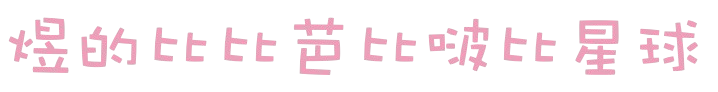
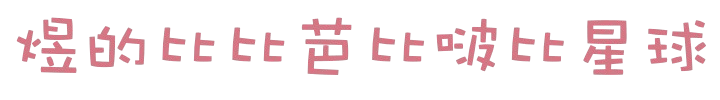
[lizhen] feat: add more lyric

Changed region(s): [[0.0, 0.1739, 0.9805, 0.8261]]

diff --git a/src/constants/call.ts b/src/constants/call.ts
@@ -1,5 +1,6 @@
 export const LYRIC = [
     '舍不得凶你 玫瑰花送你 有你 我心装不下别人变得拥挤',
+    '没有办法 拿你没有办法 告诉妈妈没办法不看她',
     '没有办法 拿你没有办法 天使守护公主 像写童话',
     '落日和你 星辰和你 都合理',
     '真实没有那么重要 重要的是真实感',
@@ -8,16 +9,23 @@ export const LYRIC = [
     '每个阶段都有终点站 我们得下车 走不同的路未来某个节点再会和',
     '惊喜来自未知才算作旅途 什么算不虚度',
     '闭上眼 看不见 想太多 tell me what u want',
-    '时常更新思想让系统重启',
+    '睡不着 找不到 想太多 tell me what u want',
+    '我们穿过烟雾 不可能延误 看不懂的以为我们修炼仙术',
+    '稀缺元素 入选年度 做到再回来宣布',
+    '时常更新思想 让系统重启',
     '有多少悔恨当初没有勇气奋不顾身',
     '有多少年轻灵魂心想不能一事无成',
     '假装没遗憾 当死神带走我一半',
     '可人都有七情六欲 所以经历相同悲欢',
+    '现在日子不好不坏活在黑与白的中间',
     '没改变这世界 也不确定是否被改变',
+    'ohoh 普通的人生 普通的想法在脑海里发芽生根',
     'ohoh 普通的人生 普通的故事 第三第二或第一人称',
+    '把自己打破再重塑的过程叫做长大',
+    '阳关道 独木桥 最后各有各的遗憾',
     '完美的人只出现在概念里',
     '我想成熟的爱是爱具体的人',
-    '到底是另外一种下放还是救赎',
+    '爱包裹的心脏血肉模糊 到底是另外一种下放还是救赎',
     '好像权衡利弊就可以削弱回忆的威力',
     '定义为再也不会有 或坏结局其实也未必',
     '不要着急记录 等故事结束再尝试叙述',
@@ -27,10 +35,66 @@ export const LYRIC = [
     '我丢掉了车票 原来她才是我通往开心的车票',
     '拥有的和即将拥有让我不断努力',
     '是谁透过迷雾看到真相 佩戴警徽当上警长的感觉真的很棒',
-    '消散的念头是缤纷的平行宇宙',
+    '不同选择决定不同的以后 消散的念头是缤纷的平行宇宙',
     '每个存在都值得被爱 值得被用心对待',
     '如果时间有尽头 你会不会在那里等我 还是注定要错过',
-    '除了你什么都没失去 和往常一样 但和你一起失去的是我自己'
+    '除了你什么都没失去 和往常一样 但和你一起失去的是我自己',
+    '能解决 早解决了 没解决的 没解决呢',
+    '好吧 明天又是新的一天 先把烦恼放一边',
+    '慢一点慢一点 反正我们又不用赶时间',
+    '替我许个愿望吧 让时间 美好 和爱 它们统统都来追我',
+    '“小鱼会有自己的海洋 你有属于自己的模样”',
+    '别总用理性标榜爱 用爱来试探人性',
+    '不能选择出生 但可以一直出声 舞刀弄剑或是文人书生',
+    '让美好属于世界 让我属于我',
+    '平等地拥抱每个灵魂的橘红色日落 和清晨的第一股花香 我想那都是我',
+    '我想要没有饥饿 没有寒冷 没有痛 没有穷 没有战争 没有残忍',
+    '我想要目睹花开 听到兩落 吹到风 摸到雪 大地对蓝天许诺',
+    '今天对明天来说也是回不去的从前',
+    '人与人刚认识的时候温度刚好 越想深入 越需要双向奔赴',
+    '我可以相信你但不相信人性 不相信白驹 我不相信概率',
+    '没有办法不看她 她能懂我的反差',
+    '你听到这首歌会感觉像朋友一样吗',
+    '一路上经过学校花店 荒野到海边 城堡和花园 还是怀念',
+    '我要你不为人知的反面',
+    '爱总会在它想来的时候到来',
+    '如果没有你 其他人在我心里都是套牌',
+    '爱偶尔让你丢失方位 太投入收获的幸福痛苦最后都是双倍',
+    '你爱他肉体还是灵魂 爱他骨子里的浑浊还是只是表面清纯',
+    '嘿 你好 好久没见',
+    '记得 是为了向上帝表达抗议 哪怕我抗拒的命运是不可抗力',
+    '我最害怕 时间让我忘了你的姓名',
+    '等到你想要牵着我的手 我带你去环游 一起仰望宇宙',
+    '你不需要变更优秀 因为我从没拿你和谁比较',
+    '我希望棒棒糖还是你开心的理由',
+    '在周末放个音乐庆祝 庆祝没放弃就没输',
+    '成长的感触 包容或袒护 时间轴上不断赶路',
+    '有人告诉他木秀于林 风必摧之 告诉他知之为知之 不知为不知',
+    '摇四季轮回 我们都变老',
+    '对不起 把你变成你不喜欢的你',
+    '对不起 没遵守承诺做到永远保护你',
+    '对不起 用坏的态度对待你',
+    '注入新的血液 留下改不掉的习惯',
+    '我尝试控制梦境 却无法阻止现实有人敲门有人离开',
+    '我也想过算了 还没转过弯呢',
+    '人们为达到目的 早已经放弃真理 我不想跟他们一样骗自己',
+    '不管你来自哪里 我们就是这个秋天最热门的话题',
+    '黑夜与白昼的争斗 思维清晰舌战群雄的能手',
+    '没人会被偏袒没实力只能遣返',
+    '不能什么都想要 最差结果要想到',
+    '如果你什么都想要 最后可能两手空空 什么都没得到',
+    '找自己 别跟随着人群都前赴后继',
+    '万物皆平等 脆弱时候需要疼爱',
+    '大自然的生存法则 从来都在混沌中黑白夹杂着',
+    '生命是条单向延展的线 视角多宽就有多少看得见',
+    '真的才华不会被“按时分配” 成功之前 都会被暂时分类',
+    '舒适圈的安逸是个陷阱 进入上帝视角才能把我唤醒',
+    '只有我才能对我自己下令 从小我就相信我策划的蝴蝶效应',
+    '就让我在故事里安睡 没有眼泪伴随也不用安慰',
+    '自我麻痹也是一种沉醉 only myself不用担心世界粉碎',
+    '想听你说你经历 心里留下你印记',
+    '如果你是陷阱我会毫无保留跳进去 为你打破墨菲定律',
+    '想要深入了解你 就像深海里的鲸 游向海底'
 ]
 
 export const CALLS = [

diff --git a/src/slices/wordDaySlice.ts b/src/slices/wordDaySlice.ts
@@ -1,32 +1,9 @@
 import { createSlice } from '@reduxjs/toolkit';
-
-const images = [
-    'https://wx4.sinaimg.cn/large/005SF7JFly1ht3kd2rhuyj30rc0rbdpi.jpg',
-    'https://wx2.sinaimg.cn/large/005SF7JFly1ht3kd1vf59j30rb0r3n37.jpg',
-    'https://wx3.sinaimg.cn/large/005SF7JFly1ht3kcyfjx8j30na0uydnf.jpg',
-    'https://wx3.sinaimg.cn/large/005SF7JFly1ht3kczw21qj30ri0rfahz.jpg',
-    'https://wx3.sinaimg.cn/large/005SF7JFly1ht3kd0l7inj30rd0rm11j.jpg',
-    'https://wx3.sinaimg.cn/large/005SF7JFly1ht3kd1c55pj30rr0s3aez.jpg',
-    'https://wx2.sinaimg.cn/large/005SF7JFly1ht3kcx8dd1j30r90retgs.jpg'
-]
-
-const texts = [
-    '人生之所以珍贵',
-    '不是我们去过的一个又一个精彩华丽的旅游胜地🏜',
-    '而是旅途之中寂寞无聊不可打发的时间里 有你陪伴💓',
-    '人间不值得 开心最重要',
-    '万事尽头 终将如意',
-    '要勇敢 不要盘旋',
-    '你要为喜欢的东西奔跑 走路真的来不及'
-]
-// '世界需要讲道理 而我永远向着你'
-// '永远有人十七岁 但是没有人永远十七岁'
-// '第一次活 手忙脚乱 一点小事就想死 是正常人类的 可爱反应机制'
-// '山鸟与鱼不同路'
+import { DAY_IMAGES, DAY_TEXTS } from '../constants/recommend';
 
 const initialState = Array.from({ length: 7 }, (_, i) => ({
-    image: images[i],
-    hitokoto: texts[i],
+    image: DAY_IMAGES[i],
+    hitokoto: DAY_TEXTS[i],
     from: '',
     from_who: ''
 }))

diff --git a/src/pages/function/pages/lyric/index.tsx b/src/pages/function/pages/lyric/index.tsx
@@ -1,29 +1,30 @@
-import React from 'react'
+import React, { useState } from 'react'
 import { View } from '@tarojs/components'
 import styles from './index.module.scss'
 import { LYRIC } from '../../../../constants/call'
 import { generateUniqueRandomNumbers } from '../../../../utils/util'
 
-
 const getStyle = () => {
   const alignments = ['flex-start', 'center', 'flex-end'];
   const randomRotation = Math.floor(Math.random() * 21) - 10;
-  const randomOffset = Math.floor(Math.random() * 21) - 10; 
   return {
     transform: `rotate(${randomRotation}deg)`,
-    marginLeft: `${randomOffset}%`,
     alignSelf: alignments[Math.floor(Math.random() * alignments.length)]
   }
 }
 
 function Lyric() {
+  const [data, setData] = useState(generateUniqueRandomNumbers(0, LYRIC.length -1, 9))
+
+  const refresh = () => {
+    setData(generateUniqueRandomNumbers(0, LYRIC.length, 9))
+  }
+
   return (
-    <View className={styles.lyricContainer}>
-      <View className={styles.lyricWrap}>
-        {generateUniqueRandomNumbers(0, 30, 9).map((item) => <View className={styles.text} style={{ ...getStyle() }}>
-          {LYRIC[item as number]}
-        </View>)}
-      </View>
+    <View className={styles.lyricWrap} onClick={refresh}>
+      {data.map((item) => <View className={styles.text} style={{ ...getStyle() }}>
+        {LYRIC[item as number]}
+      </View>)}
     </View>
   )
 }

diff --git a/src/constants/recommend.ts b/src/constants/recommend.ts
@@ -1,3 +1,27 @@
+export const DAY_IMAGES = [
+  'https://wx4.sinaimg.cn/large/005SF7JFly1ht3kd2rhuyj30rc0rbdpi.jpg',
+  'https://wx2.sinaimg.cn/large/005SF7JFly1ht3kd1vf59j30rb0r3n37.jpg',
+  'https://wx3.sinaimg.cn/large/005SF7JFly1ht3kcyfjx8j30na0uydnf.jpg',
+  'https://wx3.sinaimg.cn/large/005SF7JFly1ht3kczw21qj30ri0rfahz.jpg',
+  'https://wx3.sinaimg.cn/large/005SF7JFly1ht3kd0l7inj30rd0rm11j.jpg',
+  'https://wx3.sinaimg.cn/large/005SF7JFly1ht3kd1c55pj30rr0s3aez.jpg',
+  'https://wx2.sinaimg.cn/large/005SF7JFly1ht3kcx8dd1j30r90retgs.jpg'
+]
+
+export const DAY_TEXTS = [
+  '人生之所以珍贵',
+  '不是我们去过的一个又一个精彩华丽的旅游胜地',
+  '而是旅途之中寂寞无聊不可打发的时间里 有你陪伴',
+  '人间不值得 开心最重要',
+  '万事尽头 终将如意',
+  '要勇敢 不要盘旋',
+  '你要为喜欢的东西奔跑 走路真的来不及'
+]
+// '世界需要讲道理 而我永远向着你'
+// '永远有人十七岁 但是没有人永远十七岁'
+// '第一次活 手忙脚乱 一点小事就想死 是正常人类的 可爱反应机制'
+// '山鸟与鱼不同路'
+
 export const WORD_DAY_TYPE = [
     {
       type: 'b',

diff --git a/src/pages/function/pages/lyric/index.module.scss b/src/pages/function/pages/lyric/index.module.scss
@@ -1,22 +1,19 @@
-.lyricContainer {
+.lyricWrap {
   flex: 1;
-  background: url('../../../../image/2.png') no-repeat center top;
+  background: url('../../../../image/love.png') no-repeat center top;
   background-size: contain;
   opacity: 0.5;
+  display: flex;
+  height: inherit;
+  flex-direction: column;
+}
 
-  .lyricWrap {
-    display: flex;
-    height: inherit;
-    flex-direction: column;
-  }
-
-  .text {
-    display: flex;
-    background-color: white;
-    padding: 20px;
-    border-radius: 16px;
-    color: #666;
-    width: fit-content;
-    margin: 24rpx;
-  }
+.text {
+  display: flex;
+  background-color: white;
+  padding: 20px;
+  border-radius: 16px;
+  color: #666;
+  width: fit-content;
+  margin: 24rpx;
 }

diff --git a/src/pages/function/pages/person/index.module.scss b/src/pages/function/pages/person/index.module.scss
@@ -1,7 +1,7 @@
 
 .home {
   // background-image: linear-gradient(to top, rgba(#ebbba7, 0.5) 0%, rgba(#eb9fb9, 0.5) 100%);
-  background-image: linear-gradient(0deg, #e9d7d4 0%, rgba(#d37885, 0.6) 10%, #e9d7d4 100%);
+  background-image: linear-gradient(0deg, #e9d7d4 0%, rgba(#d37885, 0.6) 0%, #e9d7d4 100%);
   height: 100vh;
   padding: 24px;
 
@@ -181,7 +181,7 @@
     margin: 36px 2px;
     background-color: #ffffff;
     border-radius: 16px;
-    color: #eb9fb9;
+    color: #d37885;
     padding: 8px 24px;
     box-shadow: inset 4px 4px 8px #d6d6d6, inset -4px -4px 8px #ffffff;
 
@@ -241,7 +241,6 @@
     }
   }
 }
-
 
 .box {
   width: 40px;

diff --git a/src/constants/color.ts b/src/constants/color.ts
@@ -26,6 +26,7 @@ export const randomColor = () => {
 // const buttonColor = ['#d4a09b', '#d09a95', '#edcfcd', '#eabebd', '#ce9a97']
 //现在的背景色
 // const buttonColor = ['#db93a6', '#d37885', '#e9d7d4']
+// main color = '#d37885'
 
 const colors = [
     '#a2b6df',

diff --git a/src/pages/component/pages/tab/index.module.scss b/src/pages/component/pages/tab/index.module.scss
@@ -26,7 +26,7 @@
       width: 40%;
       height: 4px;
       border-radius: 4px;;
-      background-color: rgba(211, 120, 133);
+      background-color: #d37885;
       transform: translateX(-50%);
     }
   }
